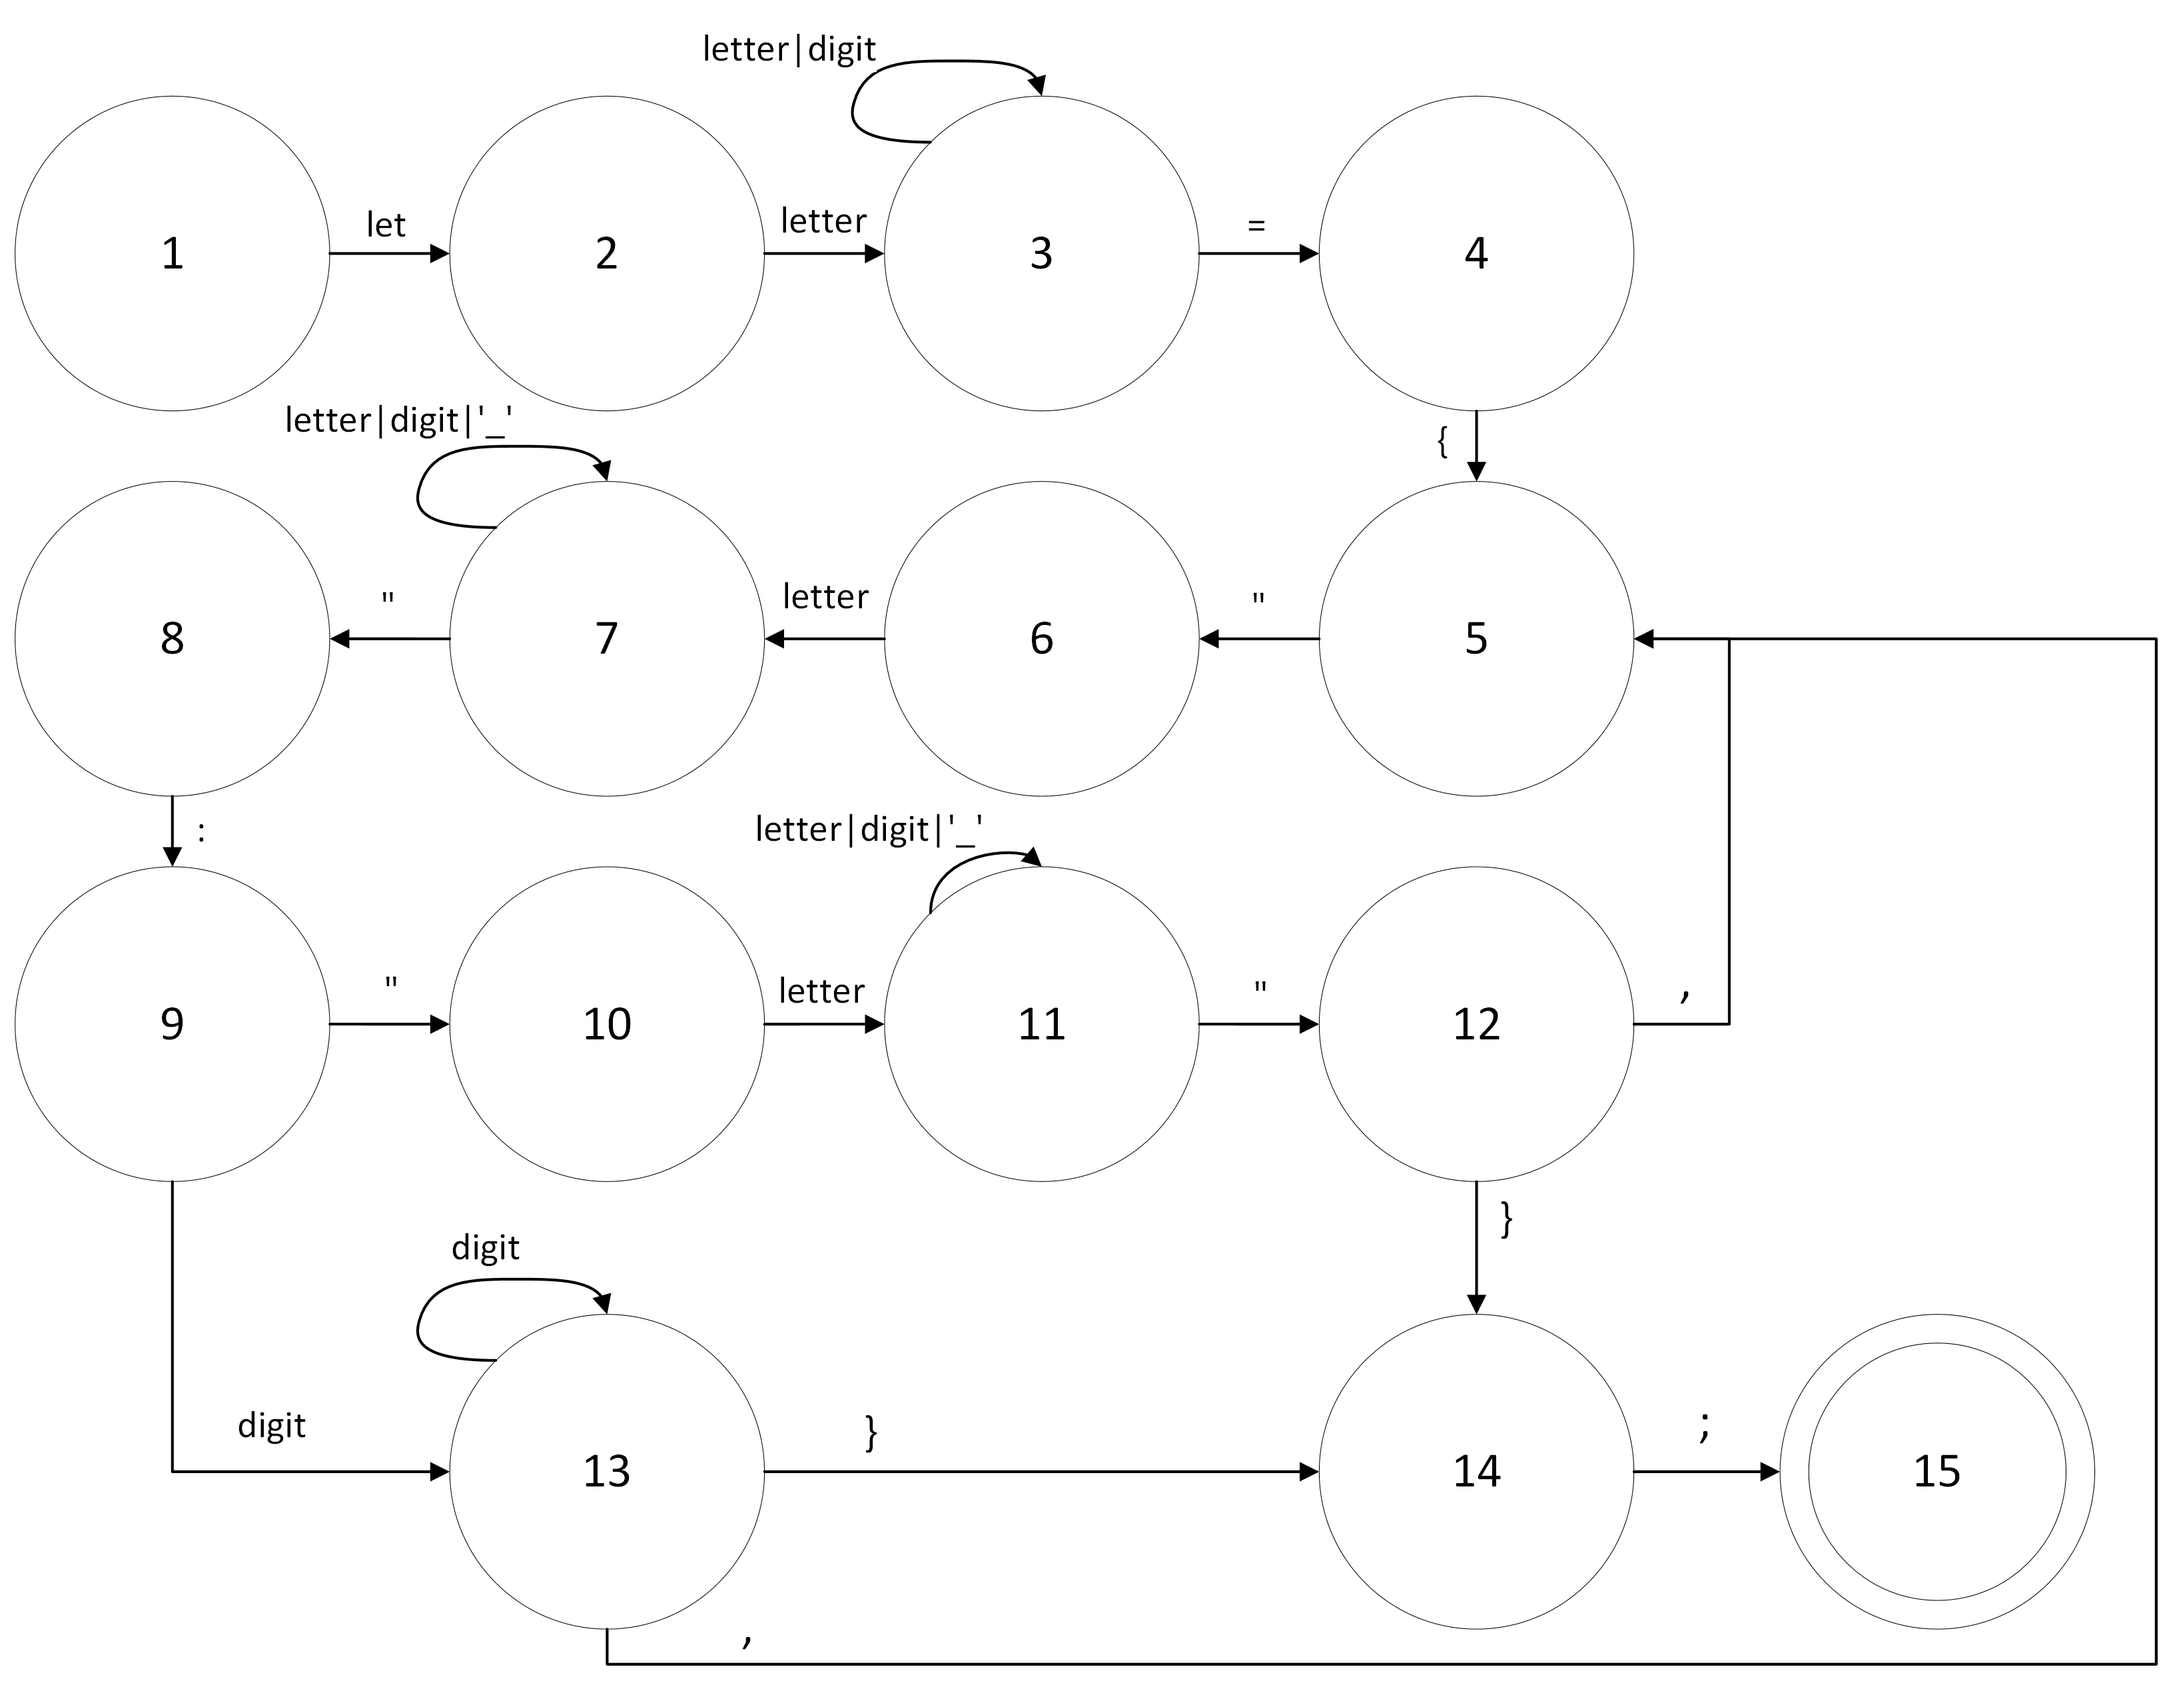
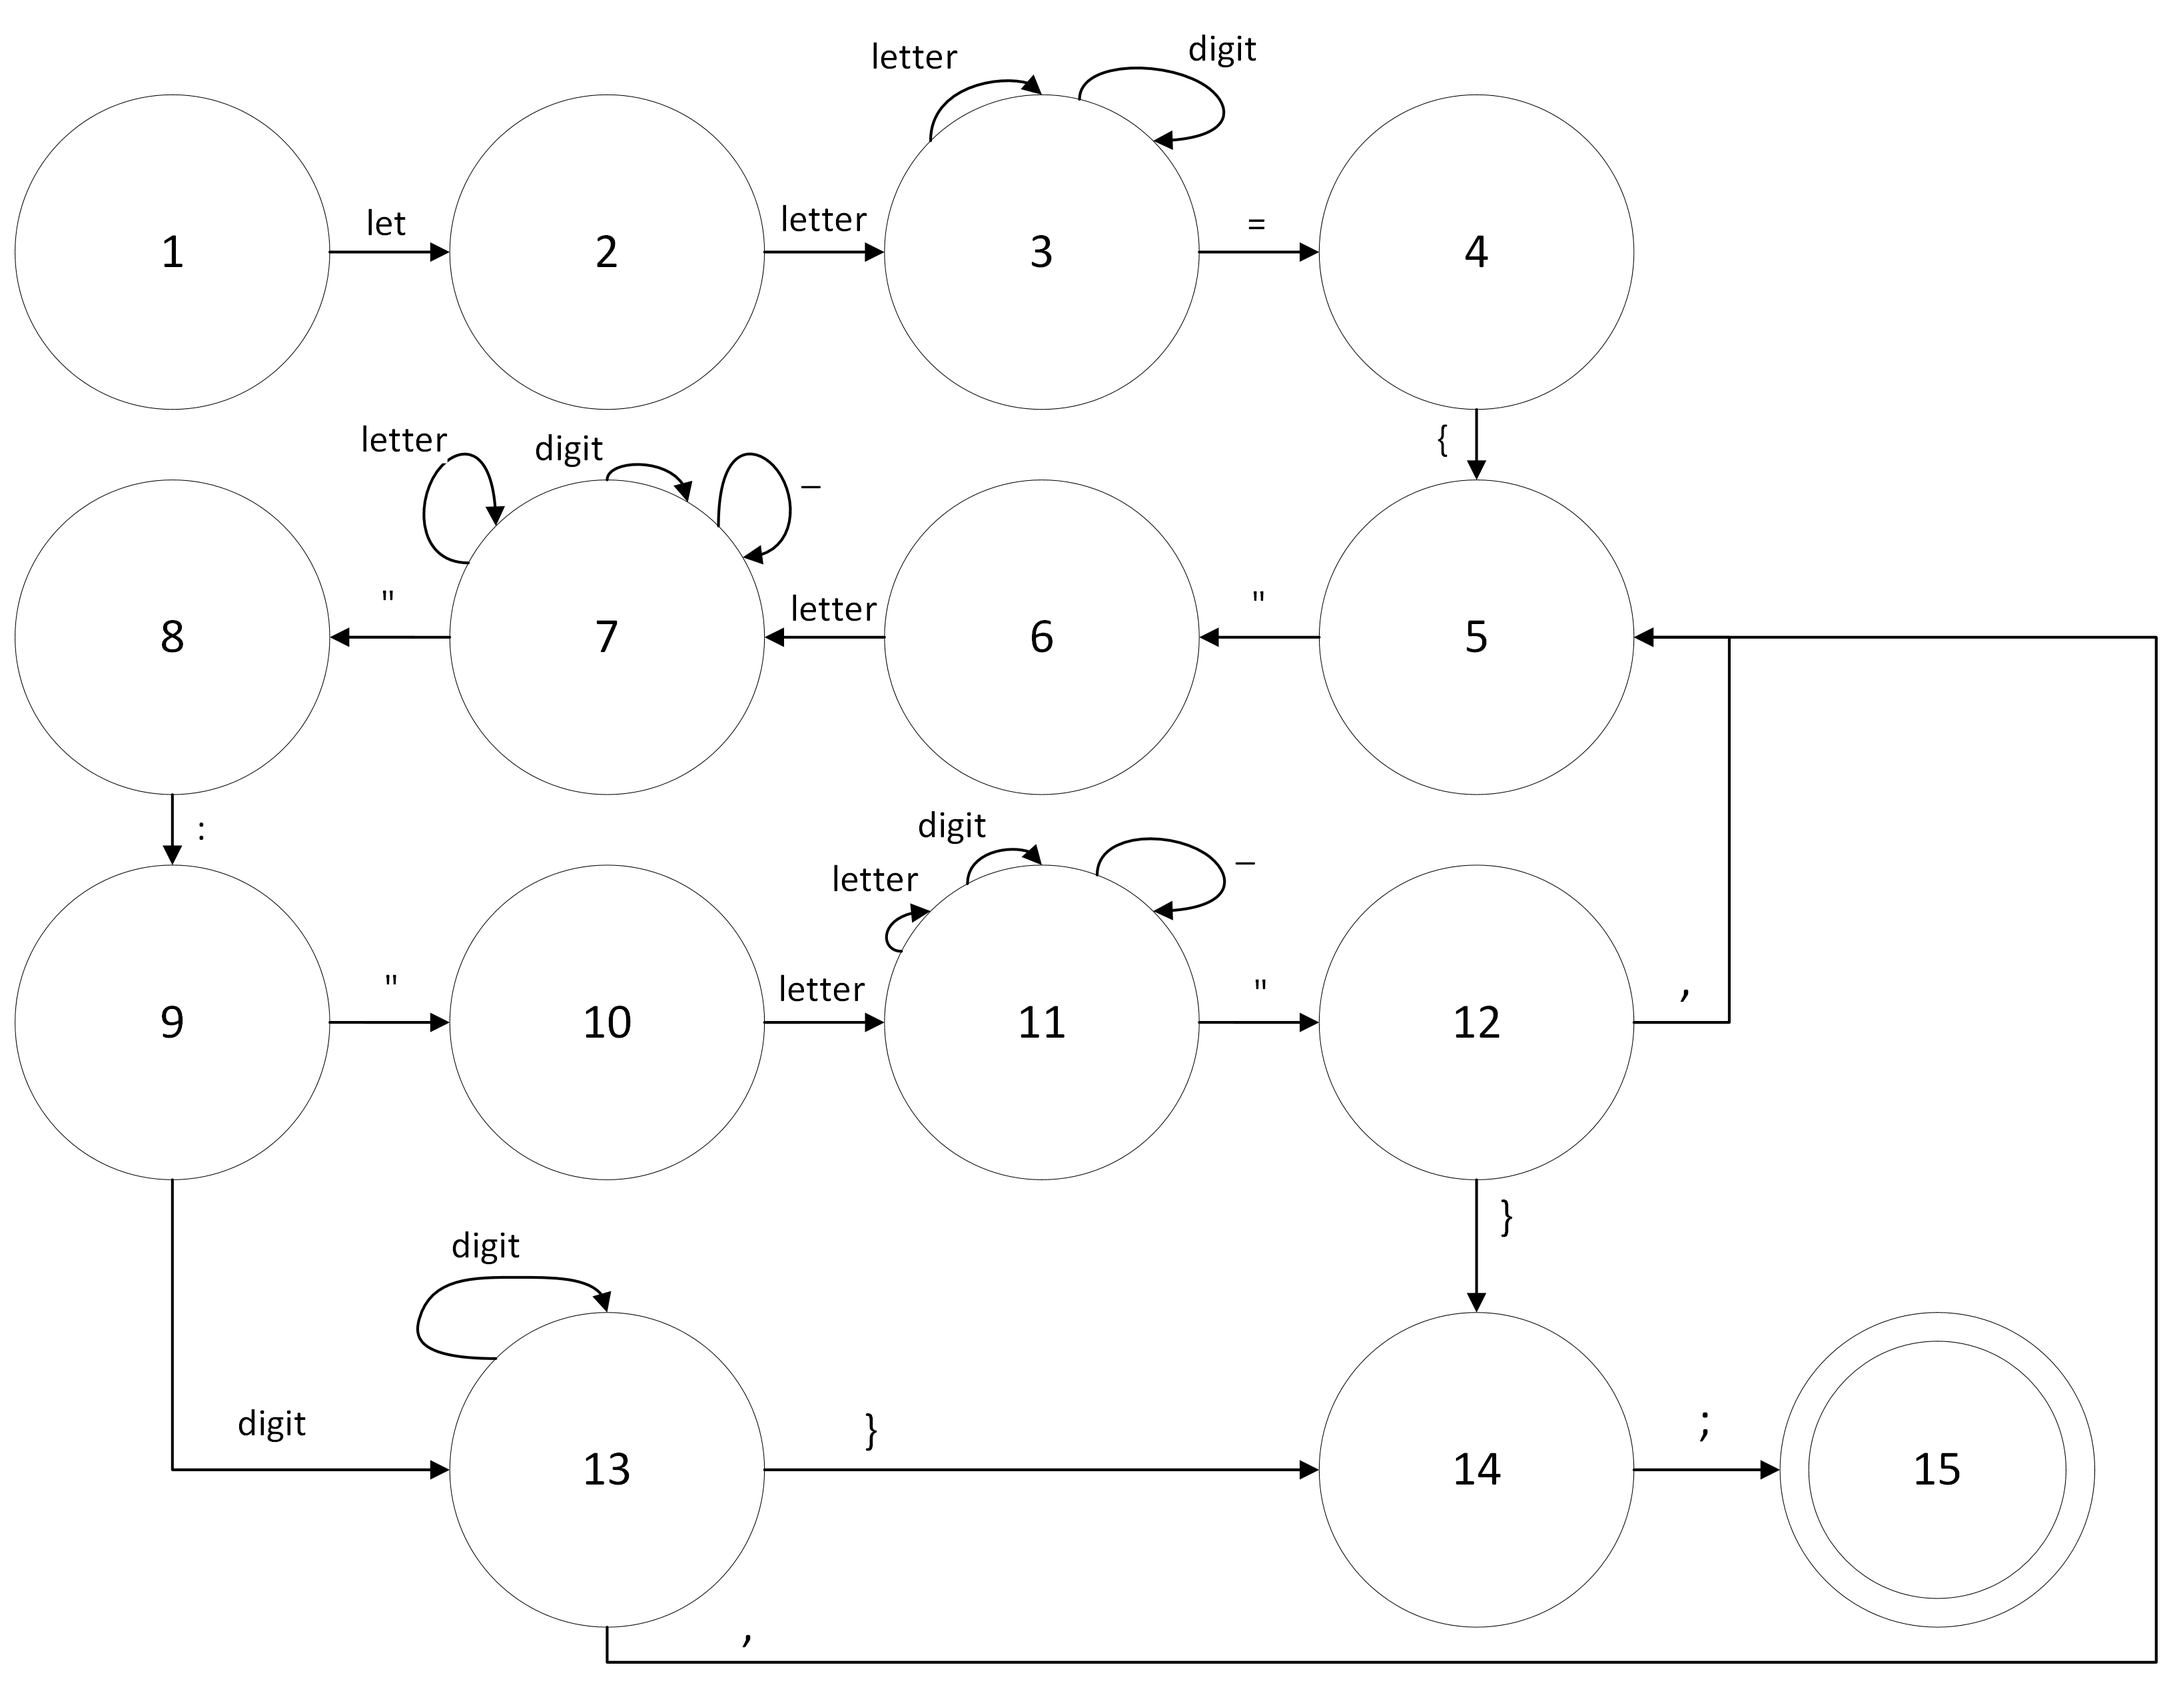
Мелкие исправления

diff --git a/CompilerLab1/Classification.html b/CompilerLab1/Classification.html
@@ -13,27 +13,27 @@
         Правила (1)-(21) относятся к классу праворекурсивных продукций (A → aB | a | ε):
     </p>
     <p>
-        1) &#60;DEF>\\ → "let" &#60;LET><br />
-        2) &#60;LET> → "letter" &#60;IDENTIFIER><br />
-        3) &#60;IDENTIFIER> → ("letter"| "digit") &#60;IDENTIFIER><br />
+        1) &#60;DEF> → "let" &#60;LET><br />
+        2) &#60;LET> → letter &#60;IDENTIFIER><br />
+        3) &#60;IDENTIFIER> → letter &#60;IDENTIFIER> | digit &#60;IDENTIFIER><br />
         4) &#60;IDENTIFIER> → "=" &#60;ASSIGNMENT><br />
         5) &#60;ASSIGNMENT> → "{" &#60;OPEN><br />
         6) &#60;OPEN>→ ‘ " ’ &#60;STRING><br />
-        7) &#60;STRING> → "letter" &#60;STRINGREM><br />
-        8) &#60;STRINGREM> → ("letter" | "_" | "digit") &#60;STRINGREM><br />
+        7) &#60;STRING> → letter &#60;STRINGREM><br />
+        8) &#60;STRINGREM> → letter &#60;STRINGREM> | "_" &#60;STRINGREM> | digit &#60;STRINGREM><br />
         9) &#60;STRINGREM> → ‘ " ’ &#60;ENDSTRING><br />
-        10) &#60;ENDSTRING > → ":" &#60;COLON><br />
-        11) &#60;COLON > → "digit" &#60;NUMBER><br />
-        12) &#60;COLON > → ‘ " ’ &#60;STRING2><br />
-        13) &#60;STRING2> → "letter" &#60;STRINGREM2><br />
-        14) &#60;STRINGREM2> → ("letter" | "_" | "digit") &#60;STRINGREM2><br />
+        10) &#60;ENDSTRING> → ":" &#60;COLON><br />
+        11) &#60;COLON> → digit &#60;NUMBER><br />
+        12) &#60;COLON> → ‘ " ’ &#60;STRING2><br />
+        13) &#60;STRING2> → letter &#60;STRINGREM2><br />
+        14) &#60;STRINGREM2> → letter &#60;STRINGREM2> | "_" &#60;STRINGREM2> | digit &#60;STRINGREM2><br />
         15) &#60;STRINGREM2> → ‘ " ’ &#60;ENDSTRING2><br />
-        16) &#60;NUMBER> → "digit" &#60;DIGIT><br />
+        16) &#60;NUMBER> → digit &#60;DIGIT><br />
         17) &#60;ENDSTRING2> → "," &#60;OPEN><br />
         18) &#60;ENDSTRING2> → "}" &#60;END><br />
         19) &#60;DIGIT> → "," &#60;OPEN><br />
         20) &#60;DIGIT> → "}" &#60;END><br />
-        21) &#60;END>→ ";" <br />
+        21) &#60;END> → ";" <br />
     </p>
 </body>
 </html>

diff --git a/CompilerLab1/Grammar.html b/CompilerLab1/Grammar.html
@@ -12,22 +12,22 @@
         Определим грамматику для объявления структуры на языке Go G[‹DEF›] в нотации Хомского с продукциями P:
     </p>
     <p>
-        1) &#60;DEF>\\ → "let" &#60;LET><br />
-        2) &#60;LET> → "letter" &#60;IDENTIFIER><br />
-        3) &#60;IDENTIFIER> → ("letter"| "digit") &#60;IDENTIFIER><br />
+        1) &#60;DEF> → "let" &#60;LET><br />
+        2) &#60;LET> → letter &#60;IDENTIFIER><br />
+        3) &#60;IDENTIFIER> → letter &#60;IDENTIFIER> | digit &#60;IDENTIFIER><br />
         4) &#60;IDENTIFIER> → "=" &#60;ASSIGNMENT><br />
         5) &#60;ASSIGNMENT> → "{" &#60;OPEN><br />
         6) &#60;OPEN>→ ‘ " ’ &#60;STRING><br />
-        7) &#60;STRING> → "letter" &#60;STRINGREM><br />
-        8) &#60;STRINGREM> → ("letter" | "_" | "digit") &#60;STRINGREM><br />
+        7) &#60;STRING> → letter &#60;STRINGREM><br />
+        8) &#60;STRINGREM> → letter &#60;STRINGREM> | "_" &#60;STRINGREM> | digit &#60;STRINGREM><br />
         9) &#60;STRINGREM> → ‘ " ’ &#60;ENDSTRING><br />
-        10) &#60;ENDSTRING > → ":" &#60;COLON><br />
-        11) &#60;COLON > → "digit" &#60;NUMBER><br />
-        12) &#60;COLON > → ‘ " ’ &#60;STRING2><br />
-        13) &#60;STRING2> → "letter" &#60;STRINGREM2><br />
-        14) &#60;STRINGREM2> → ("letter" | "_" | "digit") &#60;STRINGREM2><br />
+        10) &#60;ENDSTRING> → ":" &#60;COLON><br />
+        11) &#60;COLON> → digit &#60;NUMBER><br />
+        12) &#60;COLON> → ‘ " ’ &#60;STRING2><br />
+        13) &#60;STRING2> → letter &#60;STRINGREM2><br />
+        14) &#60;STRINGREM2> → letter &#60;STRINGREM2> | "_" &#60;STRINGREM2> | digit &#60;STRINGREM2><br />
         15) &#60;STRINGREM2> → ‘ " ’ &#60;ENDSTRING2><br />
-        16) &#60;NUMBER> → "digit" &#60;DIGIT><br />
+        16) &#60;NUMBER> → digit &#60;DIGIT><br />
         17) &#60;ENDSTRING2> → "," &#60;OPEN><br />
         18) &#60;ENDSTRING2> → "}" &#60;END><br />
         19) &#60;DIGIT> → "," &#60;OPEN><br />

diff --git a/CompilerLab1/MainWindow.xaml.cs b/CompilerLab1/MainWindow.xaml.cs
@@ -298,7 +298,7 @@ namespace CompilerLab1
             bool first = true;
             var lexer = new Lexer();
             lexer.AddDefinition(new TokenDefinition("KEYWORD", new Regex(@"let", RegexOptions.Compiled)));
-            lexer.AddDefinition(new TokenDefinition("IDENTIFIER", new Regex(@"[a-z]+[a-z0-9_]*", RegexOptions.Compiled | RegexOptions.IgnoreCase)));
+            lexer.AddDefinition(new TokenDefinition("IDENTIFIER", new Regex(@"[a-z]+[a-z0-9]*", RegexOptions.Compiled | RegexOptions.IgnoreCase)));
             lexer.AddDefinition(new TokenDefinition("ASSIGNMENT", new Regex(@"=", RegexOptions.Compiled)));
             lexer.AddDefinition(new TokenDefinition("OPEN_BRACE", new Regex(@"{", RegexOptions.Compiled)));
             lexer.AddDefinition(new TokenDefinition("CLOSE_BRACE", new Regex(@"}", RegexOptions.Compiled)));
